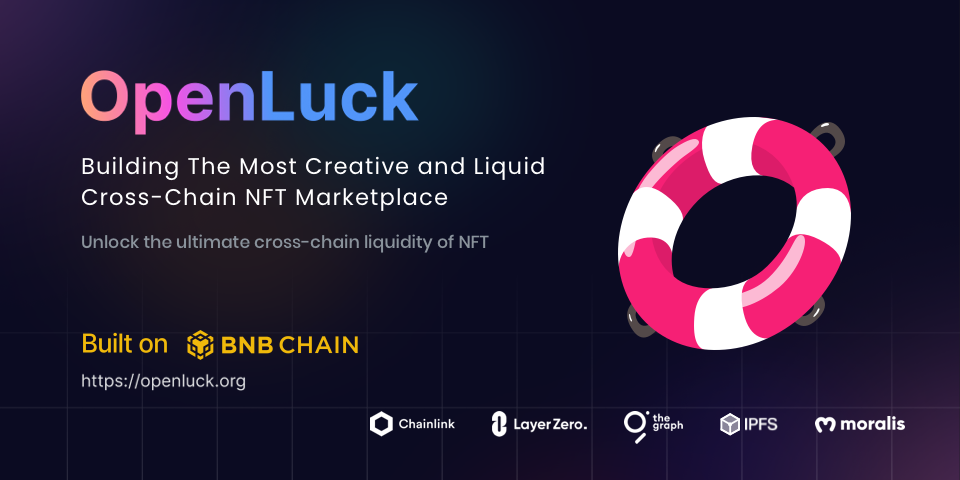
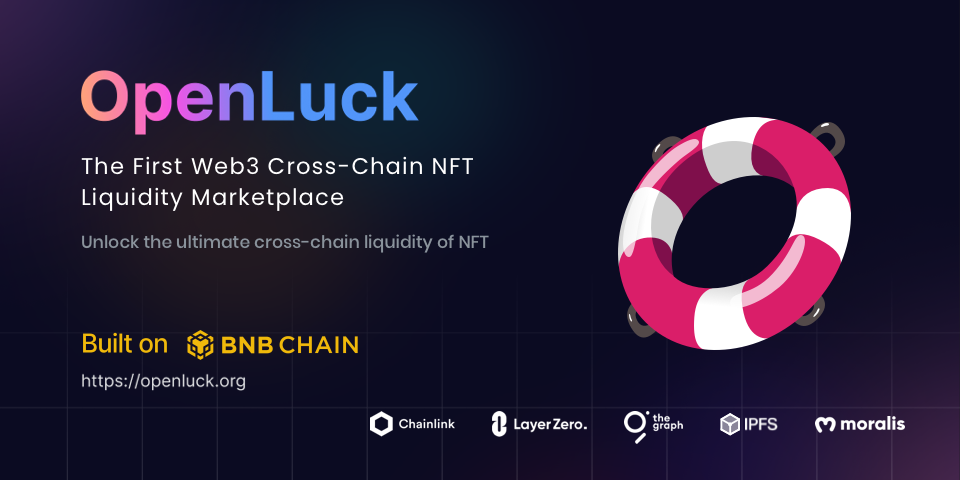
slogon

Changed region(s): [[0.625, 0.25, 0.9062, 0.7188], [0.0625, 0.3125, 0.5625, 0.4375]]

diff --git a/introduction/product.md b/introduction/product.md
@@ -1,12 +1,8 @@
 ---
-description: OpenLuck Building The Most Creative and Liquid Cross-Chain NFT Marketplace.
+description: OpenLuck The First Web3 Cross-Chain NFT Liquidity Marketplace.
 ---
 
 # Product
-
-## Web3.0 Version
-
-The Web MVP version is lauched on April 2022.
 
 **mainnet**-Website: [https://openluck.org](https://openluck.org)
 

diff --git a/README.md b/README.md
@@ -4,7 +4,7 @@
 The OpenLuck protocol is not formally audited. It may be vulnerable to bugs or exploits.
 {% endhint %}
 
-Building The Most Creative and Liquid Cross-Chain NFT Marketplace.
+The First Web3 Cross-Chain NFT Liquidity Marketplace.
 
 _Unlock the ultimate cross-chain liquidity of NFT_
 
